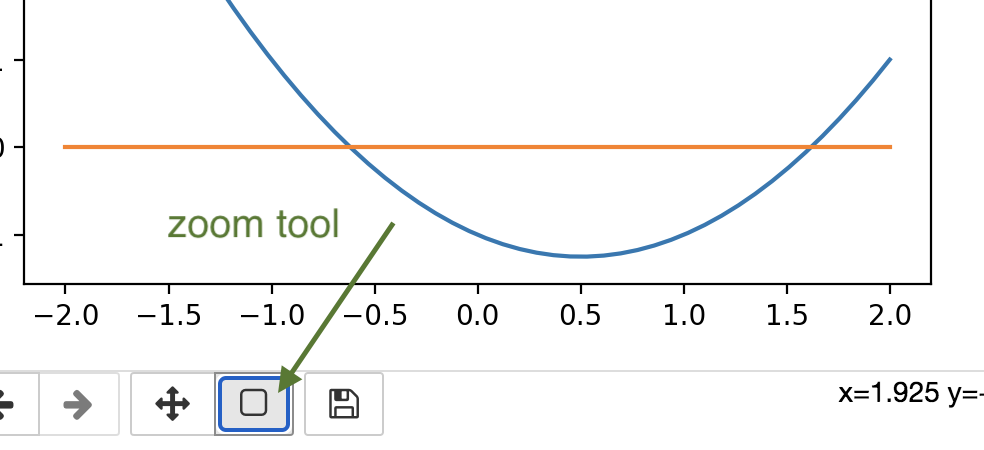
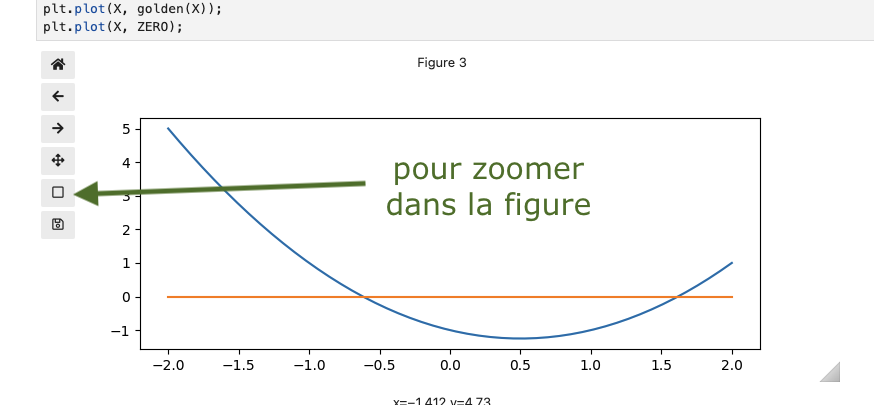
reviewed the notebooks in w7-s10 that were using ipympl and bokeh and k3d
not as bad as I thought

diff --git a/w7/w7-s10-c3-notebooks-interactifs.md b/w7/w7-s10-c3-notebooks-interactifs.md
@@ -58,21 +58,15 @@ Pour conclure cette série sur les outils de visualisation, nous allons voir que
 
 +++
 
-Pour exécuter ou créer un notebook depuis votre ordinateur, il vous faut installer Jupyter, ce que se fait bien sûr depuis le terminal :
+Pour exécuter ou créer un notebook depuis votre ordinateur, il vous faut installer Jupyter, ce qui se fait bien sûr depuis le terminal :
 ```bash
 pip install jupyter
 ```
 
-En 2020 il existe deux versions de l'interface Jupyter dites *classic* et *lab*, la seconde étant plus puissante en termes d'UI; pour installer le tout, faire plutôt
+En 2023 on recommande l'interface Jupyter dite *lab*:
 
+Pour le lancer, tapez dans le terminal:
 ```bash
-pip install jupyterlab
-```
-
-Pour lancer un serveur jupyter, faire selon le mode choisi
-```bash
-jupyter notebook
-# ou
 jupyter lab
 ```
 
@@ -108,23 +102,25 @@ Comme on l'a déjà vu plein de fois, la bonne façon de créer un graphique mat
 # ça c'est pour choisir la sortie 'interactive'
 # nécessite un `pip install ipympl`
 %matplotlib ipympl
-
-# et ça c'est pour dire 'interactive on'
-# pour éviter de devoir plt.show() tout le temps
-plt.ion()
 ```
 
-Avec ces réglages - enfin surtout le premier - il y a pas mal de possibilités qui sont très pratiques :
+**À noter**  
+* si vous voulez changer de *driver* de sortie pour matplotlib (c'est-à-dire si par exemple vous avez executé `%matplotlib inline` et qu'ensuite vous voulez changer et utiliser `%matplotlib ipympl`) il vous faudra alors *redémarrer votre kernel*
+* aussi, pour utiliser le driver *ipympl* il est nécessaire d'installer `pip install ipympl`
+
++++
+
+Avec le driver *ipympl*, il y a pas mal de possibilités qui sont très pratiques :
 
 * pour commencer on peut changer la taille de la courbe en cliquant sur le petit coin visible en bas à droite de la figure ![](media/matplotlib-resize.png)
 * les courbes apparaissent avec un barre d'outils en dessous; entraînez-vous à utiliser par exemple **l'outil de zoom**, pour agrandir et vous déplacer dans la courbe ![](media/matplotlib-navigate.png)
 
 +++
 
-À titre d'exercice, sur cette courbe le nombre d'or correspond à une des racines du polynôme, à vous de trouver sa valeur avec une précision de
+À titre d'exercice, sur cette courbe le nombre d'or correspond à une des racines du polynôme, à vous de trouver sa valeur avec une précision de $10^{-6}$
 
 ```{code-cell} ipython3
-plt.figure(figsize=(2, 2))
+plt.figure(figsize=(8, 3))
 X = np.linspace(-2, 2)
 ZERO = X * 0
 def golden(x):
@@ -134,10 +130,12 @@ plt.plot(X, ZERO);
 ```
 
 Voici à quoi je suis arrivé de mon côté (je ne dis pas que c'est forcément la méthode la plus rapide pour trouver le nombre d'or ;-):  
-Mais tous les outils de visualisation décents vons proposer des mécanismes analogues, soyez-y attentifs car ça fait parfois gagner beaucoup de temps.
+Mais tous les outils de visualisation décents vont proposer des mécanismes analogues, soyez-y attentifs car ça fait parfois gagner beaucoup de temps.
 
-
-<img src="media/matplotlib-zoomed.png" width=600px>
+```{image} media/matplotlib-zoomed.png
+:width: 600px
+:align: center
+```
 
 +++
 
@@ -160,21 +158,34 @@ je vous invite à le faire marcher localement à partir [de la version sur githu
 
 +++
 
-Pour refaire de notre coté quelque chose d'analogue, nous allons commencer par animer la fonction sinus, avec un bouton pour régler la fréquence. Pour cela nous allons utiliser la fonction `interact` ; à nouveau c'est un utilitaire qui fait partie de l'écosystème des notebooks, et plus précisément du module `ipywidgets` :
+Pour refaire de notre coté quelque chose d'analogue, nous allons commencer par animer la fonction sinus, avec un bouton pour régler la fréquence. Pour cela nous allons utiliser la fonction `interact`; c'est un utilitaire qui fait partie de l'écosystème des notebooks, et plus précisément du module `ipywidgets`
+
+**Avertissement**  
+pour cette partie sur les visualisation interactives, il est nécessaire de repasser en mode `%matplotib inline`  
+du coup, si vous avez bien lu la note ci-dessus, je vous invite à **redémarrer votre kernel avant de continuer**...  
+il est bien sûr possible de faire la même chose en mode `ipympl`, mais c'est plus complexe, et ça me semble mieux de commencer par faire simple :)
 
 ```{code-cell} ipython3
-# dans cette partie on a besoin de 
-# revenir dans un mode plus usuel
-%matplotlib inline
-```
+# pensez à redémarrer votre kernel avant d'attaquer cette cellule
 
-```{code-cell} ipython3
 from ipywidgets import interact
+
+import numpy as np
+import matplotlib.pyplot as plt
 ```
 
 +++ {"slideshow": {"slide_type": "-"}}
 
 Dans un premier temps, j'écris une fonction qui prend en paramètre la fréquence, et qui dessine la fonction sinus sur un intervalle fixe de 0. à $4\pi$ :
+
+```{code-cell} ipython3
+%matplotlib inline
+```
+
+```{code-cell} ipython3
+# je change aussi la taille des visualisations
+plt.rcParams["figure.figsize"] = (12, 4)
+```
 
 ```{code-cell} ipython3
 ---
@@ -199,14 +210,11 @@ sinus(1)
 sinus(0.5)
 ```
 
-Maintenant, plutôt que de tracer individuellement les courbes une à une, j'utilise `interact` qui va m'afficher une réglette pour changer le paramètre `freq`. Ça se présente comme ceci :
+Maintenant, plutôt que de tracer individuellement les courbes une à une, j'utilise `interact` qui va m'afficher **une réglette pour changer le paramètre `freq`**. Ça se présente comme ceci :
 
 ```{code-cell} ipython3
-# je change maintenant la taille des visualisations
-plt.rcParams["figure.figsize"] = (12, 4)
-```
+:tags: []
 
-```{code-cell} ipython3
 interact(sinus, freq=(0.5, 10., 0.25));
 ```
 
@@ -311,7 +319,7 @@ interact(sinus2, freq=fixed(1.),
 
 Il existe toute une famille de widgets, dont `FloatSlider` est l'exemple le plus courant, mais vous pouvez aussi :
 
-* créer des radio bouton pour entrer un paramètre booléen ;
+* créer un radio bouton pour entrer un paramètre booléen ;
 * ou une saisie de texte pour entre un paramètre de type `str` ;
 * ou une liste à choix multiples…
 
@@ -387,8 +395,8 @@ def sinus4(freq, phase, amplitude, domain):
     layout = go.Layout(
         yaxis = {'range' : [-10, 10]},
         title="Exemple de graphique interactif avec dashboard",
-        height=500,
-        width=500,
+        height=400,
+        width=750,
     )
     figure = go.Figure(data=data, layout=layout)
     pyoff.iplot(figure)
@@ -422,7 +430,7 @@ def my_dashboard():
                            value = 3.,
                            description = "amplitude",
                            layout = l_25)
-    w_domain = IntSlider(min=1, max=10, description="dom. n * π", layout=l_50)
+    w_domain = IntSlider(min=1, max=10, description="dom. n * π", value=2, layout=l_50)
 
     # make up a dashboard
     dashboard = VBox([HBox([w_amplitude, w_phase]),

diff --git a/w7/w7-s10-c4-animations-matplotlib.md b/w7/w7-s10-c4-animations-matplotlib.md
@@ -71,6 +71,12 @@ from IPython.display import display as display_widget
 from ipywidgets import IntSlider
 ```
 
+```{code-cell} ipython3
+# la taille des figures par défaut
+
+plt.rcParams["figure.figsize"] = (6, 2.5)
+```
+
 ### La logique
 
 +++
@@ -126,7 +132,7 @@ from matplotlib import pyplot as plt
 from matplotlib import animation
 
 # on commence par créer une figure; 
-figure1 = plt.figure(figsize=(4, 2))
+figure1 = plt.figure()
 
 # en général pour une animation 
 # il est important de fixer les bornes en x et en y 
@@ -165,9 +171,7 @@ plt.show()
 
 ### Séparation calcul et affichage
 
-```{code-cell} ipython3
-plt.ion()
-```
++++
 
 On voit qu'on a appelé `FuncAnimation` avec `frames=50` et `interval=40` (ms); ce qui correspond donc à 25 images par seconde, soit une durée de deux secondes.
 
@@ -199,7 +203,7 @@ import numpy as np
 from matplotlib import pyplot as plt
 from matplotlib import animation
 
-figure2 = plt.figure(figsize=(4, 2))
+figure2 = plt.figure()
 ax2 = plt.axes(xlim=(0, 2), ylim=(-1.5, 1.5))
 line2, = ax2.plot([], [], linewidth=2)
 
@@ -234,7 +238,9 @@ def display(frame):
 anim = animation.FuncAnimation(figure2,
                                func=display,
                                frames=compute(),
-                               interval=40, blit=True)
+                               interval=40, blit=True,
+                               # principalement pour éviter un warning
+                               cache_frame_data=False)
 plt.show()
 ```
 
@@ -260,7 +266,7 @@ from matplotlib import animation
 from IPython.display import display as display_widget
 from ipywidgets import IntSlider
 
-figure3 = plt.figure(figsize=(4, 2))
+figure3 = plt.figure()
 ax3 = plt.axes(xlim=(0, 2), ylim=(-1.5, 1.5))
 line3, = ax3.plot([], [], linewidth=2)
 
@@ -293,7 +299,9 @@ def display(frame):
 anim = animation.FuncAnimation(figure3,
                                func=display,
                                frames=compute(),
-                               interval=40, blit=True)
+                               interval=40, blit=True,
+                               # principalement pour éviter un warning
+                               cache_frame_data=False)
 
 display_widget(speed_slider)
 plt.show()

diff --git a/w7/w7-s10-c6-fourier-k3d.md b/w7/w7-s10-c6-fourier-k3d.md
@@ -42,6 +42,8 @@ import numpy as np
 # mostly we use bokeh in here, but the first glimpse is made with mpl
 import matplotlib.pyplot as plt
 %matplotlib ipympl
+
+plt.rcParams["figure.figsize"] = [6, 2.5]
 ```
 
 ```{code-cell} ipython3
@@ -85,7 +87,7 @@ Pour un aperçu, on la plotte rapidement avec matplotlib
 
 ```{code-cell} ipython3
 def plot_functions(domain, title, *functions):
-    plt.figure(figsize=(4, 2))
+    plt.figure()
     for function in functions:
         plt.plot(domain, function(domain))
     # notice how to retrieve the function's docstring
@@ -375,6 +377,11 @@ a2d.interact(full_spectrum())
 On peut même zoomer autour des fréquences critiques :
 
 ```{code-cell} ipython3
+# ici on fait varier la fréquence 
+# sur un voisinage beaucoup + étroit autour de 0.5
+# ce qui permet un bien meilleure précision
+# observez comment le point rouge (la somme) se déplace
+
 a2d.interact(closeup_around(FUNDAMENTAL))
 ```
 
@@ -393,8 +400,9 @@ Par contre ce sont les vitesses de calcul qui vont commencer à nous limiter :
 
 ```{code-cell} ipython3
 # la discontinuité est plus forte qu'on ne pourrait le penser
-# mais pour le vois il faut augmenter le domaine
+# mais pour le voir il faut augmenter le domaine
 # et donc les calculs sont plus lents
+
 a2dzoom = FourierAnimator2D(my_periodic, FUNDAMENTAL, domain=500)
 a2dzoom.display()
 a2dzoom.interact(closeup_around(FUNDAMENTAL))
@@ -404,6 +412,6 @@ a2dzoom.interact(closeup_around(FUNDAMENTAL))
 
 Une vidéo de 3BlueBrown, sur le même sujet; bon ses animations sont autrement plus sophistiquées :-)
 
-mais ici au moins on les a faites nous-mêmes ;)
+mais ici on a la satisfaction de les avoir faites nous-mêmes ;)
 
-https://www.youtube.com/watch?v=spUNpyF58BY
+<https://www.youtube.com/watch?v=spUNpyF58BY>

diff --git a/w7/w7-s10-c5-bokeh-et-al.md b/w7/w7-s10-c5-bokeh-et-al.md
@@ -106,11 +106,12 @@ Pour une présentation plus complète, je vous renvoie à [la documentation util
 
 +++
 
-Nous allons rapidement illustrer ici comment `bokeh` s'interface avec l'environnement des notebooks pour créer une visualisation interactive. Vous remarquerez que dans le code qui suit, on n'a **pas eu besoin de mentionner** de *magic* ipython, comme lorsqu'on avait du faire dans le complément sur les notebooks interactifs :
-
-```python
-%matplotlib ipympl
-```
+Nous allons rapidement illustrer ici comment `bokeh` s'interface avec l'environnement des notebooks pour créer une visualisation interactive. Vous remarquerez que dans le code qui suit:
+- on a installé pour Python la bibliothèque idoine
+  ```bash
+  pip install jupyter-bokeh
+  ```
+- on n'a **pas besoin** de choisir un *driver* pour matplotlib (genre `%matplotlib ipympl`); en fait bokeh est relativement indépendant de matplotlib..
 
 ```{code-cell} ipython3
 import numpy as np
@@ -183,7 +184,10 @@ handle1 = show(figure1, notebook_handle=True)
 ```{code-cell} ipython3
 # maintenant on peut créer un interacteur
 interact(update_trigo, 
-         # on peut définir les options sont des tuples (label, valeur)
+         # pour choisir la fonction on veut un dropdown 
+         # avec 3 options prédéfinies
+         # pour ça on définit les options 
+         # comme des tuples (label, valeur)
          # et ici nos valeurs sont des fonctions
          function=Dropdown(options =(("sinus", np.sin),
                                      ("cosinus", np.cos),

diff --git a/w7/w7-s10-x1-taylor.md b/w7/w7-s10-x1-taylor.md
@@ -58,6 +58,7 @@ Ce code est relativement générique, vous pouvez visualiser l'approximation de 
 
 ```{code-cell} ipython3
 # to compute derivatives
+
 import autograd
 import autograd.numpy as np
 ```
@@ -191,7 +192,7 @@ sinus_animator = Taylor(np.sin, DOMAIN)
 
 +++
 
-Ensuite on crée un `ipywidget` qui va nous permettre de choisir le degré $n$; dans le cas de sinus, qui est impaire, les degrés intéressants sont impairs (vous pouvez vérifier que les coefficients de Taylor pairs sont nuls lorsque $f$ est impaire).
+Ensuite on crée un `ipywidget` qui va nous permettre de choisir le degré $n$; dans le cas de sinus, qui est impaire, les degrés intéressants sont impairs (les coefficients de Taylor pairs sont trivialement nuls lorsque $f$ est impaire).
 
 ```{code-cell} ipython3
 # the widget to select a degree
@@ -239,7 +240,7 @@ exp_widget = IntSlider(min=0, max=17,
    layout=Layout(width='100%'))
 
 ### ready to go
-exp_animator = Taylor(np.exp, np.linspace(-5, 10, 200))
+exp_animator = Taylor(np.exp, np.linspace(-2, 10, 200))
 exp_animator.display((-15_000, 25000))
 exp_animator.interact(exp_widget)
 ```

diff --git a/w7/w7-s10-c2-matplotlib-3d.md b/w7/w7-s10-c2-matplotlib-3d.md
@@ -364,7 +364,9 @@ surf = ax.plot_surface(X, Y, Z, facecolors=colors, linewidth=0)
 
 # Customize the z axis.
 ax.set_zlim(-1, 1)
-ax.w_zaxis.set_major_locator(LinearLocator(6))
+# 2023 Dec: this line breaks the script, although it's still
+# in matplotlib's examples; let's ignore it for now
+# ax.w_zaxis.set_major_locator(LinearLocator(6))
 
 plt.show()
 ```
